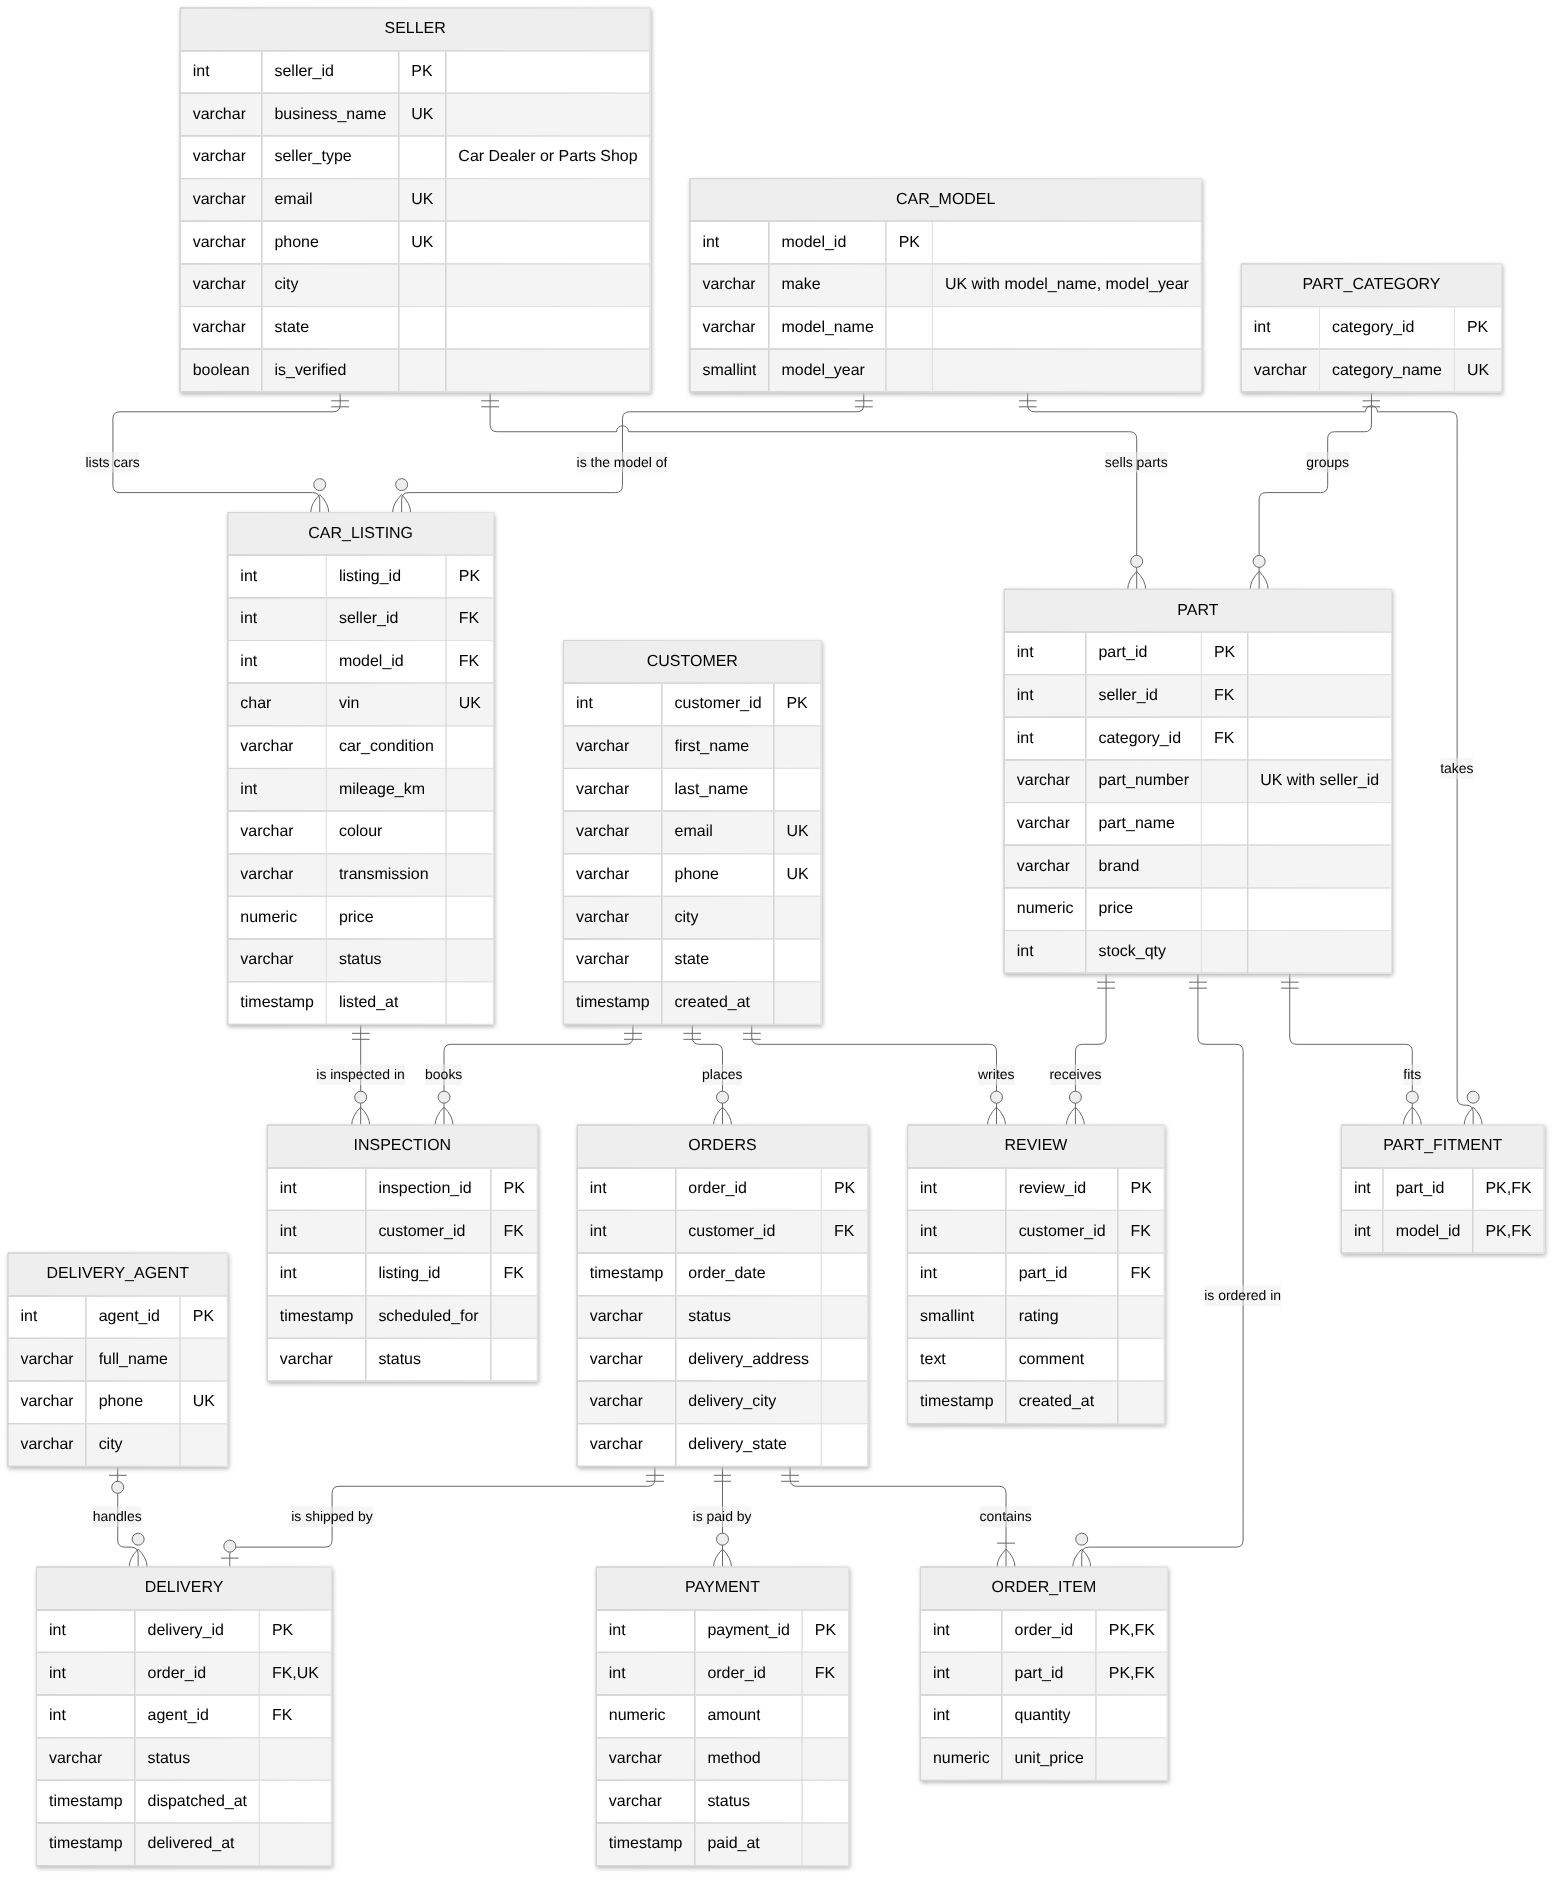
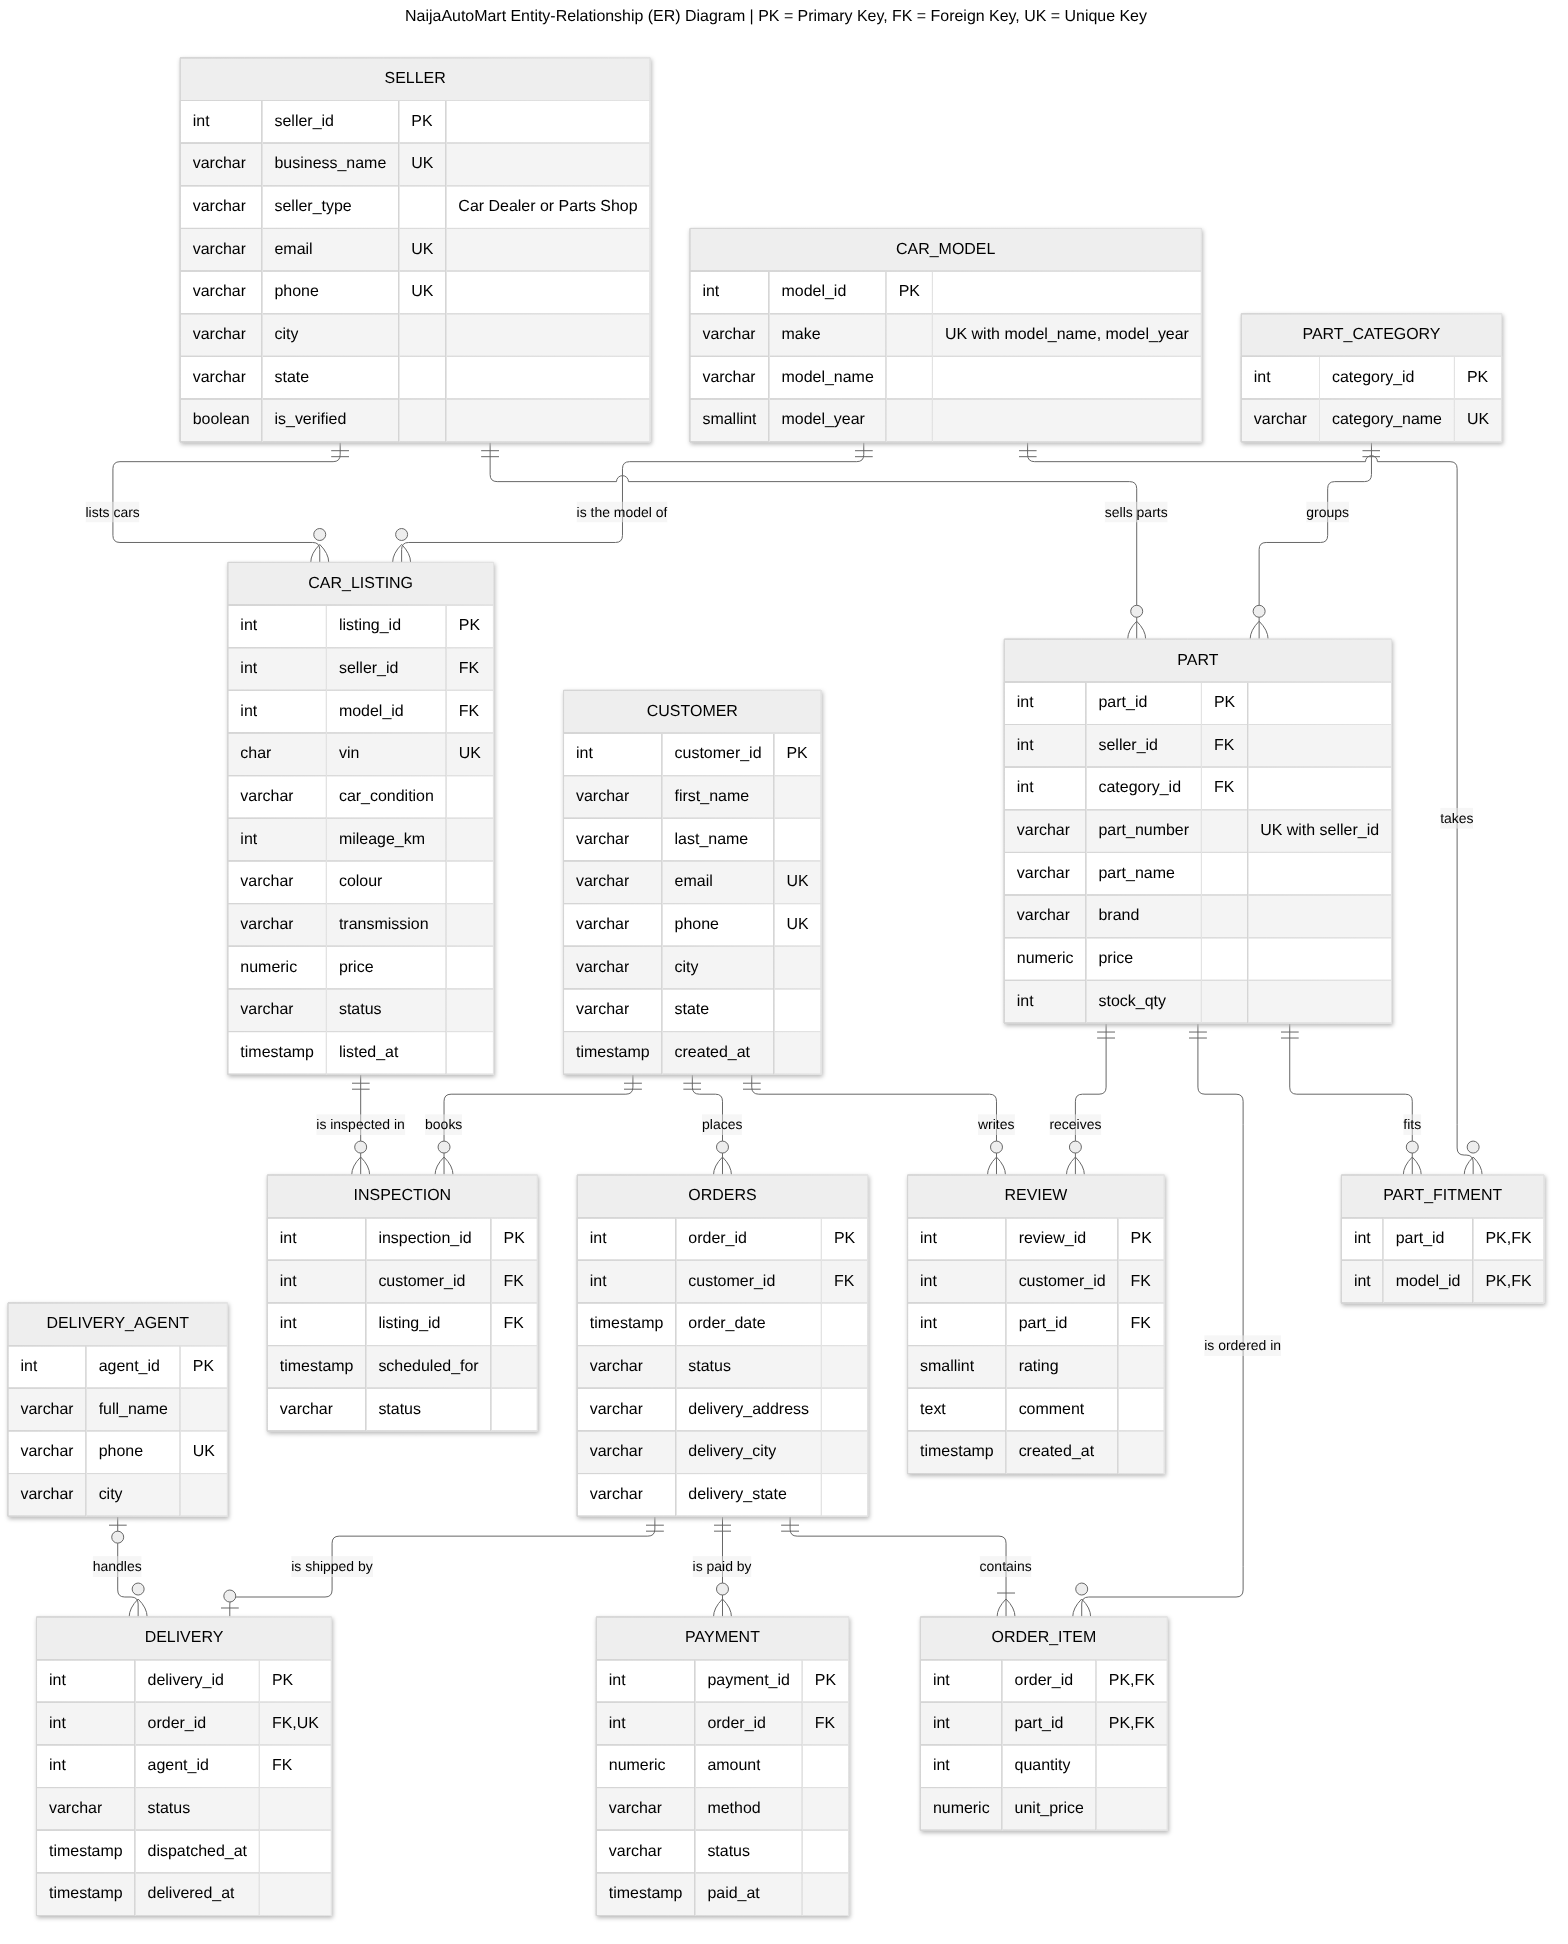
Explain every abbreviation: glossary page, first-use spell-outs, key on ER diagram
Claude-Session: https://claude.ai/code/session_014yCcRfueZbLQbVJpc25vDB

diff --git a/portfolio-1-database-design/README.md b/portfolio-1-database-design/README.md
@@ -2,10 +2,12 @@
 
 This portfolio designs the relational database for **NaijaAutoMart**, a made-up Nigerian online store for cars and auto parts, and builds it in **PostgreSQL 16**.
 
+*Abbreviations are spelled out on first use. Full list: [abbreviations.md](../docs/abbreviations.md).*
+
 | Required by the brief | Where to find it |
 |---|---|
 | Chosen case study description | [Main README](../README.md#my-case-study-naijaautomart-online-store) and the summary below |
-| ER diagram | [er-diagram.png](er-diagram.png) (shown below) |
+| ER (Entity-Relationship) diagram | [er-diagram.png](er-diagram.png) (shown below) |
 | Relational schema | [Relational schema](#relational-schema) below, and [01_create_tables.sql](scripts/01_create_tables.sql) |
 | Keys | [Keys and constraints](#keys-and-constraints) below |
 | Constraints | [Keys and constraints](#keys-and-constraints), proved in [03_test_constraints.sql](scripts/03_test_constraints.sql) |
@@ -22,11 +24,11 @@ NaijaAutoMart connects **car dealers** and **auto parts shops** with **customers
 
 ---
 
-## ER diagram
+## ER (Entity-Relationship) diagram
 
 ![NaijaAutoMart ER diagram](er-diagram.png)
 
-*Crow's foot notation. PK = primary key, FK = foreign key, UK = unique. Source: [er-diagram.mmd](er-diagram.mmd). It can be edited at [mermaid.live](https://mermaid.live), or imported into draw.io under Arrange → Insert → Advanced → Mermaid.*
+*Crow's foot notation. PK = Primary Key, FK = Foreign Key, UK = Unique Key. Source: [er-diagram.mmd](er-diagram.mmd). It can be edited at [mermaid.live](https://mermaid.live), or imported into draw.io under Arrange → Insert → Advanced → Mermaid.*
 
 ### How to read the relationships
 
@@ -44,7 +46,7 @@ A relational database can't store many-to-many links directly, so each one gets 
 
 ## Relational schema
 
-PK = primary key, FK = foreign key (→ the table it points to)
+PK = Primary Key, FK = Foreign Key (→ the table it points to)
 
 1. **CUSTOMER** (customer_id PK, first_name, last_name, email, phone, city, state, created_at)
 2. **SELLER** (seller_id PK, business_name, seller_type, email, phone, city, state, is_verified)
@@ -67,9 +69,9 @@ PK = primary key, FK = foreign key (→ the table it points to)
 
 | Type | What it does | Examples in NaijaAutoMart |
 |---|---|---|
-| **Primary key** | Gives every row a unique ID | `customer_id`, `part_id`; composite `(order_id, part_id)` in ORDER_ITEM |
+| **Primary key** | Gives every row a unique ID (identifier) | `customer_id`, `part_id`; composite `(order_id, part_id)` in ORDER_ITEM |
 | **Foreign key** | Links to a real row in another table | An order's `customer_id` must exist in CUSTOMER |
-| **UNIQUE** | No duplicates allowed | Customer email and phone; car VIN; one review per customer per part; no double-booking a car inspection |
+| **UNIQUE** | No duplicates allowed | Customer email and phone; car VIN (Vehicle Identification Number); one review per customer per part; no double-booking a car inspection |
 | **NOT NULL** | Value must be filled in | Every car must have a VIN, price and condition |
 | **CHECK** | Value must follow a rule | Price > 0; stock ≥ 0; rating 1–5; seller type is "Car Dealer" or "Parts Shop" |
 | **DEFAULT** | Fills a value automatically | `order_date` = now; new orders start as 'Pending' |
@@ -104,7 +106,7 @@ Test 12 PASSED (double booking blocked)
 
 ## Normalisation
 
-The tables are in **Third Normal Form (3NF)** and also pass the **BCNF** check. [normalisation.md](normalisation.md) walks through a real order step by step, from one messy row through 1NF, 2NF and 3NF, and explains the design choices that look like repetition but are deliberate (such as keeping `unit_price` on each order item).
+The tables are in **Third Normal Form (3NF)** and also pass the **Boyce-Codd Normal Form (BCNF)** check. [normalisation.md](normalisation.md) walks through a real order step by step, from one messy row through First (1NF), Second (2NF) and Third Normal Form (3NF), and explains the design choices that look like repetition but are deliberate (such as keeping `unit_price` on each order item).
 
 ---
 
@@ -115,10 +117,10 @@ The tables are in **Third Normal Form (3NF)** and also pass the **BCNF** check. 
 
 | Order | Script | What it does |
 |---|---|---|
-| 1 | [01_create_tables.sql](scripts/01_create_tables.sql) | Creates the 14 tables (safe to re-run) |
+| 1 | [01_create_tables.sql](scripts/01_create_tables.sql) | Creates the 14 tables using SQL (Structured Query Language); safe to re-run |
 | 2 | [02_insert_sample_data.sql](scripts/02_insert_sample_data.sql) | Adds sample customers, sellers, cars, parts and orders |
 | 3 | [03_test_constraints.sql](scripts/03_test_constraints.sql) | Tests the rules; results appear in the **Messages** tab |
-| 4 | [04_check_queries.sql](scripts/04_check_queries.sql) | Five queries showing the design works |
+| 4 | [04_check_queries.sql](scripts/04_check_queries.sql) | Five queries (Q1–Q5) showing the design works |
 
 ## Evidence
 

diff --git a/portfolio-1-database-design/normalisation.md b/portfolio-1-database-design/normalisation.md
@@ -1,5 +1,7 @@
 # Normalisation: from an order form to clean tables
 
+*Abbreviations: UNF = Unnormalised Form, 1NF/2NF/3NF = First/Second/Third Normal Form, BCNF = Boyce-Codd Normal Form, PK = Primary Key, FK = Foreign Key. Full list: [abbreviations.md](../docs/abbreviations.md).*
+
 **Normalisation** means organising data so each fact is stored in **one place only**. That stops three problems:
 
 - **Update problem**: change a seller's phone number in one row but forget the others, and the data now disagrees with itself.
@@ -10,7 +12,7 @@ Below, a NaijaAutoMart parts order goes step by step from one messy record to th
 
 ---
 
-## Step 0: Unnormalised data (UNF)
+## Step 0: Unnormalised Form (UNF)
 
 This is how an order might look if typed into one spreadsheet row:
 
@@ -67,7 +69,7 @@ The key is (order_id, part_id). Check each column with **functional dependencies
 
 | Table | Transitive dependency found | Fix |
 |---|---|---|
-| ORDERS | order_id → customer_id → name, email, phone | Move customer details to **CUSTOMER**; keep only `customer_id` (FK) in ORDERS |
+| ORDERS | order_id → customer_id → name, email, phone | Move customer details to **CUSTOMER**; keep only `customer_id` as a Foreign Key (FK) in ORDERS |
 | PART | part_id → seller_id → seller name, phone | Move seller details to **SELLER**; keep `seller_id` (FK) |
 | PART | part_id → category_id → category_name | Move to **PART_CATEGORY**; keep `category_id` (FK) |
 
@@ -87,9 +89,9 @@ Now each fact lives in one place. If Ladipo AutoParts changes its phone number, 
 
 ---
 
-## Step 4: A quick check for BCNF
+## Step 4: A quick check for Boyce-Codd Normal Form (BCNF)
 
-**Boyce-Codd Normal Form (BCNF)** is a slightly stricter version of 3NF: every column that decides other columns must itself be a key. The design passes:
+**BCNF** is a slightly stricter version of 3NF: every column that decides other columns must itself be a key. The design passes:
 
 - In **CAR_MODEL**, (make, model_name, model_year) decides the row, and it is declared `UNIQUE`, so it is a candidate key.
 - In **PART**, (seller_id, part_number) decides the row, and it is declared `UNIQUE`.
@@ -102,6 +104,6 @@ Now each fact lives in one place. If Ladipo AutoParts changes its phone number, 
 | Choice | Why it is correct |
 |---|---|
 | `unit_price` is stored in ORDER_ITEM even though PART has `price` | Part prices change. An order must remember what the customer **actually paid** on that day. This is a historical fact, not a copy. |
-| The order **total is not stored** | It is calculated from the order items (see Query 4 in `04_check_queries.sql`), so it can never be wrong or out of date. |
+| The order **total is not stored** | It is calculated from the order items (see Query 4, Q4, in `04_check_queries.sql`), so it can never be wrong or out of date. |
 | ORDERS has its own delivery address, separate from the customer's city | A customer may live in Ikeja but have parts delivered to their office or mechanic. The address belongs to the order. |
 | `city` and `state` are both kept | City is typed in by users, and city names alone are not a reliable way to work out the state, so we do not treat city → state as a rule. A full address lookup table could be added later if needed. |

diff --git a/docs/abbreviations.md b/docs/abbreviations.md
@@ -1,0 +1,52 @@
+# Abbreviations Used in This Portfolio
+
+Each abbreviation is also spelled out the first time it appears on each page. This list grows as new portfolios are added.
+
+## Course and general
+
+| Abbreviation | Full meaning |
+|---|---|
+| **MIT** | Master of Information Technology (the course code MIT 8103) |
+| **MIVA** | MIVA Open University (the university's name) |
+| **CA** | Continuous Assessment |
+| **AI** | Artificial Intelligence |
+| **ID** | Identifier: a number or code that uniquely identifies a record |
+| **PC** | Personal Computer |
+| **FCT** | Federal Capital Territory (Abuja) |
+
+## Databases
+
+| Abbreviation | Full meaning | In simple words |
+|---|---|---|
+| **DB** | Database | An organised store of data |
+| **SQL** | Structured Query Language | The language used to create and query relational databases |
+| **NoSQL** | Not only SQL | Databases that store data in other forms, such as documents (used in Portfolio 4) |
+| **ER** | Entity-Relationship | An ER diagram shows the things (entities) a database stores and how they are linked |
+| **PK** | Primary Key | The column(s) that uniquely identify each row in a table |
+| **FK** | Foreign Key | A column that points to a row in another table |
+| **UK** | Unique Key | A column (or columns) where no two rows can have the same value |
+| **UNF** | Unnormalised Form | Raw data before any normalisation, often with several values in one cell |
+| **1NF** | First Normal Form | Every cell holds one value; no repeating groups |
+| **2NF** | Second Normal Form | 1NF, and every column depends on the whole primary key |
+| **3NF** | Third Normal Form | 2NF, and no column depends on another non-key column |
+| **BCNF** | Boyce-Codd Normal Form | A stricter version of 3NF: everything that decides other columns must be a key |
+| **Q1–Q5** | Query 1 to Query 5 | The numbered example queries in `04_check_queries.sql` |
+
+## Cars and auto parts
+
+| Abbreviation | Full meaning |
+|---|---|
+| **VIN** | Vehicle Identification Number: a unique 17-character code for every car |
+| **Ah** | Ampere-hour: how much charge a car battery holds (e.g. 75Ah) |
+| **R16 / R18** | Radial tyre for a 16-inch / 18-inch wheel rim (e.g. 205/55 R16) |
+| **H4** | A standard headlight bulb type |
+
+## Tools
+
+| Abbreviation | Full meaning |
+|---|---|
+| **pgAdmin** | PostgreSQL Administration tool: the graphical app for managing PostgreSQL |
+| **psql** | PostgreSQL's command-line tool |
+| **VS Code** | Visual Studio Code: a free code editor |
+| **WSL** | Windows Subsystem for Linux: lets Windows run Linux tools (needed by Docker) |
+| **PNG** | Portable Network Graphics: an image file format |

diff --git a/README.md b/README.md
@@ -1,5 +1,7 @@
 # Advanced Database Systems Portfolio (MIT 8103)
 
+*MIT = Master of Information Technology. All abbreviations are explained in [docs/abbreviations.md](docs/abbreviations.md).*
+
 MIVA Open University · Master of Information Technology · 2026/2027 First Semester
 
 ## My Case Study: NaijaAutoMart Online Store
@@ -29,7 +31,7 @@ MIVA Open University · Master of Information Technology · 2026/2027 First Seme
 | [Portfolio 1](portfolio-1-database-design/) | Database Design and Modelling | 7 | Done |
 | [Portfolio 2](portfolio-2-query-optimisation/) | Query Processing and Optimisation | 7 | Not started |
 | [Portfolio 3](portfolio-3-transactions-concurrency/) | Transactions and Concurrency | 7 | Not started |
-| [Portfolio 4](portfolio-4-nosql/) | NoSQL and Advanced Data Models | 7 | Not started |
+| [Portfolio 4](portfolio-4-nosql/) | NoSQL (Not only SQL) and Advanced Data Models | 7 | Not started |
 | [Portfolio 5](portfolio-5-distributed-cloud/) | Distributed and Cloud Database Exercise | 6 | Not started |
 | [Final Documentation](docs/) | Portfolio documentation and technical reflection | 6 | Not started |
 | **Total** | | **40** | |
@@ -38,4 +40,4 @@ MIVA Open University · Master of Information Technology · 2026/2027 First Seme
 PostgreSQL, MongoDB, Docker, Python, draw.io
 
 ## Notes
-Each folder has its own README explaining what was done and how to run it. Setup steps are in [docs/setup-guide.md](docs/setup-guide.md). Sources are listed in [docs/references.md](docs/references.md) and AI use in [docs/ai-use-log.md](docs/ai-use-log.md).
+Each folder has its own README explaining what was done and how to run it. Setup steps are in [docs/setup-guide.md](docs/setup-guide.md). Sources are listed in [docs/references.md](docs/references.md) and AI (Artificial Intelligence) use in [docs/ai-use-log.md](docs/ai-use-log.md).

diff --git a/docs/setup-guide.md b/docs/setup-guide.md
@@ -1,13 +1,15 @@
 # Setup Guide (Windows)
 
+*Abbreviations are explained in [abbreviations.md](abbreviations.md).*
+
 The tools needed for this portfolio, in the order you need them. Install the first five this week. Docker is only needed for Portfolio 5, so it can wait.
 
 | # | Tool | Needed for | When |
 |---|---|---|---|
 | 1 | Git | Saving work to GitHub | Now |
-| 2 | VS Code | Editing files | Now |
-| 3 | PostgreSQL + pgAdmin | Portfolios 1, 2, 3, 5 | Now |
-| 4 | draw.io | ER diagram | Now |
+| 2 | VS Code (Visual Studio Code) | Editing files | Now |
+| 3 | PostgreSQL + pgAdmin (PostgreSQL Administration tool) | Portfolios 1, 2, 3, 5 | Now |
+| 4 | draw.io | ER (Entity-Relationship) diagram | Now |
 | 5 | Python | Creating test data | Before Portfolio 2 |
 | 6 | MongoDB + Compass | Portfolio 4 | Before Portfolio 4 |
 | 7 | Docker Desktop | Portfolio 5 | Before Portfolio 5 |
@@ -25,7 +27,7 @@ git config --global user.name "Ayobami Adebajo"
 git config --global user.email "ayobamiadebajo@gmail.com"
 ```
 
-## 2. VS Code
+## 2. VS Code (Visual Studio Code)
 1. Download from **https://code.visualstudio.com**
 2. Install with the defaults. Tick **"Add to PATH"** if asked.
 
@@ -56,7 +58,7 @@ pip install faker psycopg2-binary pymongo
 
 ## 7. Docker Desktop (before Portfolio 5)
 1. Download from **https://www.docker.com/products/docker-desktop/**
-2. Install with the defaults (it uses WSL 2; let it install that if asked) and restart your PC.
+2. Install with the defaults (it uses WSL 2, the Windows Subsystem for Linux; let it install that if asked) and restart your PC (Personal Computer).
 3. Open Docker Desktop and wait until it says **Engine running**.
 
 ---

diff --git a/docs/ai-use-log.md b/docs/ai-use-log.md
@@ -1,6 +1,6 @@
-# AI Use Log
+# AI (Artificial Intelligence) Use Log
 
 | Date | AI tool | What I used it for | How I checked it |
 |---|---|---|---|
 | 6 Oct 2026 | Claude (Anthropic) | Planning the 6-week schedule and setting up this repository's folders | Compared against the assessment brief |
-| 7 Oct 2026 | Claude (Anthropic) | Help drafting the Portfolio 1 table design, SQL scripts, ER diagram and normalisation write-up | Ran every script on PostgreSQL 16; checked all 12 constraint tests and the query results by hand; reviewed each design decision against the case study |
+| 7 Oct 2026 | Claude (Anthropic) | Help drafting the Portfolio 1 table design, SQL (Structured Query Language) scripts, ER (Entity-Relationship) diagram and normalisation write-up | Ran every script on PostgreSQL 16; checked all 12 constraint tests and the query results by hand; reviewed each design decision against the case study |
